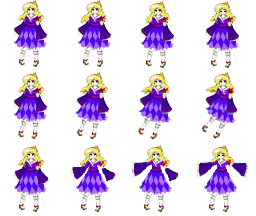
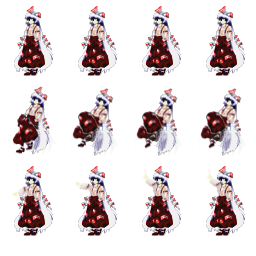
v0.32_release

diff --git a/PythonSTG/script/Object/Player.py b/PythonSTG/script/Object/Player.py
@@ -1,6 +1,6 @@
 from .XCItem import XCItem
 class Player(XCItem):
-    def __init__(self, frameName = "Satsuki Rin"):
+    def __init__(self, frameName = "Hakurei Reimu"):
         super().__init__()
         self._divideInfo = [8, 3]
         self._isFlexible = True
@@ -10,7 +10,7 @@ class Player(XCItem):
         self._playerTurnRightRow = 2
 
         self._moveSpeed = 1.45
-        self._imageSwapInterval = 0.08
+        self._imageSwapInterval = 0.1
         self._basePower = 1.0
 
         self._scaleSize = [0.06,0.08, 1.0] #3:4 img

diff --git a/PythonSTG/XCFrame.cpp b/PythonSTG/XCFrame.cpp
@@ -134,6 +134,7 @@ bool XCFrame::getFrameTerminate()
 }
 XCFrame::XCFrame() {
 	xcstd::ConfigManager cfg("pystg.cfg");
+	std::cout << "[INFO]Internal version:"<< PythonSTGVersion << std::endl;
 	if (cfg.IsFirstRun()) {
 		cfg.AddNewInfo("up", std::to_string(GLFW_KEY_UP));
 		cfg.AddNewInfo("down", std::to_string(GLFW_KEY_DOWN));

diff --git a/PythonSTG/XCFrame.h b/PythonSTG/XCFrame.h
@@ -7,6 +7,7 @@
 #include "util/GameTimer.h"
 class XCFrame {
 private:
+	const char* PythonSTGVersion = "v0.31x_update2";
 	std::atomic_bool isFrameTerminate = false;
 	GLFWwindow* pscreen = nullptr, *tscreen = nullptr;
 	static XCFrame* pInstance;

diff --git a/PythonSTG/script/XCCore.py b/PythonSTG/script/XCCore.py
@@ -4,7 +4,7 @@ from script.Object.Player import Player
 # demo stage 演示关卡
 import script.TestStage as TestStage
 
-winTitle = "Python2D v0.31x"
+winTitle = "Python2D v0.32"
 
 # PySTG default function
 def coreInitializer():
